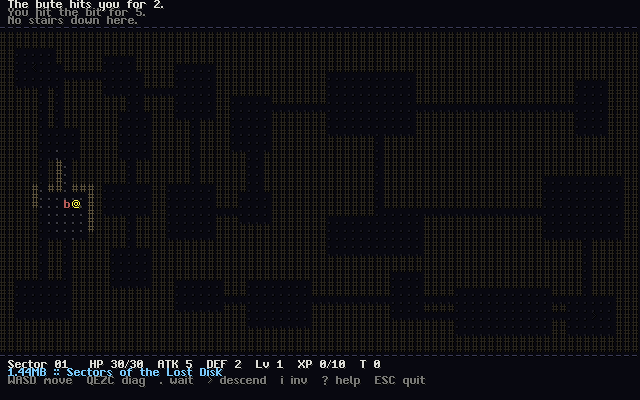
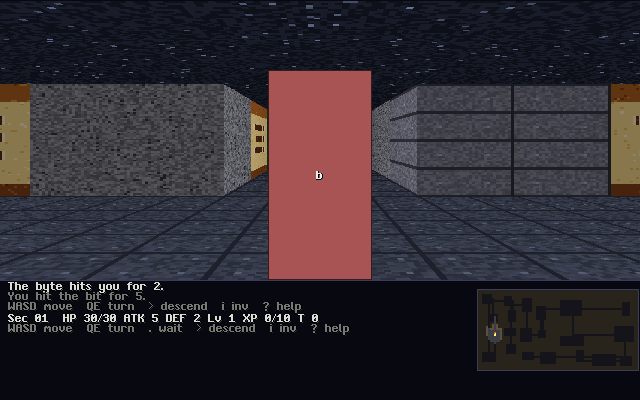
docs: update README, size log, and screenshots for 3D renderer
- README: rewrite gameplay / controls / size / architecture sections
  for the new first-person view, document the procedural textures,
  and refresh the size table (33 KB -> 36 KB UPX).
- size-log.md: add stage 10 row with the per-platform deltas and a
  breakdown of why the UPX delta is only +3.5 KB (procedural textures
  generated at runtime live in .bss, not in the on-disk image).
- screenshots: regenerate gameplay.png (3D corridor with a mob, log,
  status, minimap), help.png (new control reference); title.png is
  rebuilt with the new __DATE__ stamp.

diff --git a/README.md b/README.md
@@ -1,9 +1,11 @@
 # 1.44 MB :: Sectors of the Lost Disk
 
-A classic dungeon-crawl **roguelike** that fits on a single 3.5-inch HD floppy
-disk. The whole game (executable, font, data, everything) is a **33,280-byte
-standalone Windows executable** -- about 2.3 % of the 1,474,560-byte floppy
-budget.
+A **first-person 3D dungeon-crawl roguelike** that fits on a single 3.5-inch
+HD floppy disk. Doom-style textured walls, grid-locked movement,
+turn-based combat -- in the spirit of *Wizardry*, *Eye of the Beholder*,
+and *Legend of Grimrock*. The whole game (executable, font, textures,
+data, everything) is a **36,864-byte standalone Windows executable** --
+about 2.5 % of the 1,474,560-byte floppy budget.
 
 Built for the [1.44MB GAME_DEV CONTEST](https://2pgarcade.com/contest-144mb.html).
 
@@ -18,10 +20,19 @@ You are the last data-recovery routine in memory. Jack in, descend through
 
 ## Gameplay
 
-A turn-based dungeon crawler in the tradition of *Rogue* and *NetHack*:
+A turn-based dungeon crawler with a real-time-feel **column-based raycaster**
+in the tradition of *Wolfenstein 3D* and *Doom*, played in the tradition of
+*Wizardry* and *Rogue*:
 
 - 15 procedurally generated floors built with recursive BSP partitioning
-- Symmetric raycast field-of-view with tile memory
+- **Textured 3D first-person view** rendered with DDA wall casting,
+  perspective-correct floor / ceiling mapping, distance fade,
+  and depth-buffered scaled sprites
+- 6 hand-generated wall textures (metal panel, concrete, BIOS chip,
+  blood-stained steel, floppy label, steel door) -- procedurally drawn
+  on first frame so no texture bytes ship in the binary
+- Symmetric raycast field-of-view with tile memory; the **minimap** in
+  the bottom right shows everything you've explored
 - 11 regular enemies + 3 unique bosses on the checkpoint floors (5, 10, 15)
 - 20-item table: weapons, armor, patches (potions), scrolls, food
 - Unidentified patches and scrolls get random pseudo-names (`red patch`,
@@ -35,17 +46,25 @@ A turn-based dungeon crawler in the tradition of *Rogue* and *NetHack*:
 
 ### Controls
 
+Movement is **grid-locked** and **turn-based**: one keypress = one tile.
+
 ```
-W A S D         move (north / west / south / east)
-Q E Z C         move diagonally (NW / NE / SW / SE)
-arrows          cardinal directions
-hjkl / yubn     vim-style aliases
+W               step forward (1 tile, facing direction)
+S               step backward (1 tile)
+A               strafe left
+D               strafe right
+Q               turn 90 deg left   (does NOT consume a turn)
+E               turn 90 deg right  (does NOT consume a turn)
 .   space       wait one turn
 >               descend stairs
 i               open inventory
 ?               in-game help
 ESC             abandon run (returns to title)
 ```
+
+Walking into an enemy attacks it (bump-to-attack). Facing is restricted to
+the four cardinal directions; `Q` and `E` rotate the camera 90 degrees in
+place and do not cost a turn, so you can survey the room freely.
 
 In inventory: `a-p` use/equip an item, `D` (capital) then `<letter>` drop, `i`/`ESC` close.
 
@@ -81,11 +100,14 @@ of a 1.44 MB 3.5-inch HD floppy. The actual numbers from this build:
 | Artifact                              | Size      | % of 1.44 MB |
 |---------------------------------------|----------:|-------------:|
 | Mac build (`clang -Os -flto`)         |    69 KB |          5 % |
-| Win build (`mingw -Os -flto -s`)      |   131 KB |          9 % |
-| Win build + `upx --best --lzma`       |  **33 KB** |    **2.3 %** |
+| Win build (`mingw -Os -flto -s`)      |   174 KB |         12 % |
+| Win build + `upx --best --lzma`       |  **36 KB** |    **2.5 %** |
 
-We leave **1,441,280 bytes** unused on the floppy. The game would actually
-fit on a 360 KB 5.25-inch floppy from 1983 with room to spare.
+The 3D renderer added only ~3.5 KB to the UPX-compressed binary because
+the wall / floor / ceiling textures are **generated procedurally on
+startup** -- no texture bytes ship in the file. We leave **1,437,696 bytes**
+unused on the floppy. The game would still fit on a 360 KB 5.25-inch floppy
+from 1983 with room to spare.
 
 The full per-stage size log is in [`size-log.md`](size-log.md).
 
@@ -99,7 +121,11 @@ Pure C99, statically linked, **no runtime dependencies**:
 - [src/mob.c](src/mob.c) -- spawning, AI (chase / erratic / teleport), combat
 - [src/item.c](src/item.c) -- inventory, equipment, identification, effects
 - [src/score.c](src/score.c) -- binary high-score persistence (`score.dat`)
-- [src/ui.c](src/ui.c) -- rendering (title, help, hiscore, inventory, map)
+- [src/ui.c](src/ui.c) -- screens (title, help, hiscore, inventory) +
+  3D viewport / minimap / status panel composition
+- [src/render3d.c](src/render3d.c) -- Wolfenstein-style raycaster: procedural
+  wall / floor / ceiling textures, DDA wall casting, perspective-correct
+  floor mapping, distance fade, depth-buffered sprite blits, minimap
 - [src/rng.c](src/rng.c) -- 32-bit xorshift PRNG
 - [src/data.c](src/data.c) -- static tables: monsters, items, pseudo-names
 - [src/game.h](src/game.h) -- all shared types and prototypes

diff --git a/size-log.md b/size-log.md
@@ -13,11 +13,19 @@ Track binary size at each checkpoint. Budget: 1,474,560 bytes (1.44MB floppy).
 | 7. depth (hunger, 14 mobs, 3 bosses, win) | 70,680 | - | 32,768 | +512B Win. 11 reg mobs + 3 bosses + hunger/win.
 | 8. size-opt (final flag audit) | 70,680 | 134,144 | 32,768 | Final flags: -Os -flto -ffunction-sections -fdata-sections --gc-sections --strip-all + UPX --best --lzma. 2.2% of 1.44MB.
 | 9. polish (README + screenshots + UI spacing) | 70,632 | ~134,000 | 33,280 | +512B for proper inventory/help line spacing.
+| 10. 3D renderer (raycaster + procedural textures) | 70,696 | 178,176 | 36,864 | +64B Mac / +44KB Win raw / **+3.5KB UPX**. Procedural 64x64 wall/floor/ceiling textures (no shipped texture bytes), DDA wall casting, perspective-correct floor mapping, depth-buffered sprites, minimap. Input updated for first-person grid+turn-based (W/S forward/back, A/D strafe, Q/E turn 90 deg). Existing game state, FOV, mob AI, items, hunger, bosses untouched.
 
 ## Budget summary
 
 - Target floppy size: **1,474,560 bytes** (1.44 MB, 3.5" HD floppy)
-- Final submission `.exe`: **33,280 bytes** (33 KB)
-- Headroom: **1,441,280 bytes** unused (97.7 % of the disk)
-- Compression: raw ~134 KB -> UPX 33 KB (~4x ratio, --best --lzma)
+- Final submission `.exe`: **36,864 bytes** (36 KB)
+- Headroom: **1,437,696 bytes** unused (97.5 % of the disk)
+- Compression: raw ~174 KB -> UPX 36 KB (~4.8x ratio, --best --lzma)
+
+## 3D renderer cost breakdown (stage 10 - stage 9)
+
+- Win raw delta:  +44 KB  (renderer code + libm `sinf`/`cosf`/`floorf`/`fabsf` pulled in)
+- Win UPX delta:  **+3.5 KB** (LZMA squashes the new code very effectively)
+- Mac delta:      +64 bytes (LLVM LTO + dead-strip is more aggressive than mingw)
+- BSS / zero-init: ~32 KB at runtime for the 8 procedural textures (paletted 64x64 + 16-color palettes). Lives in `.bss`, not in the on-disk file.
 